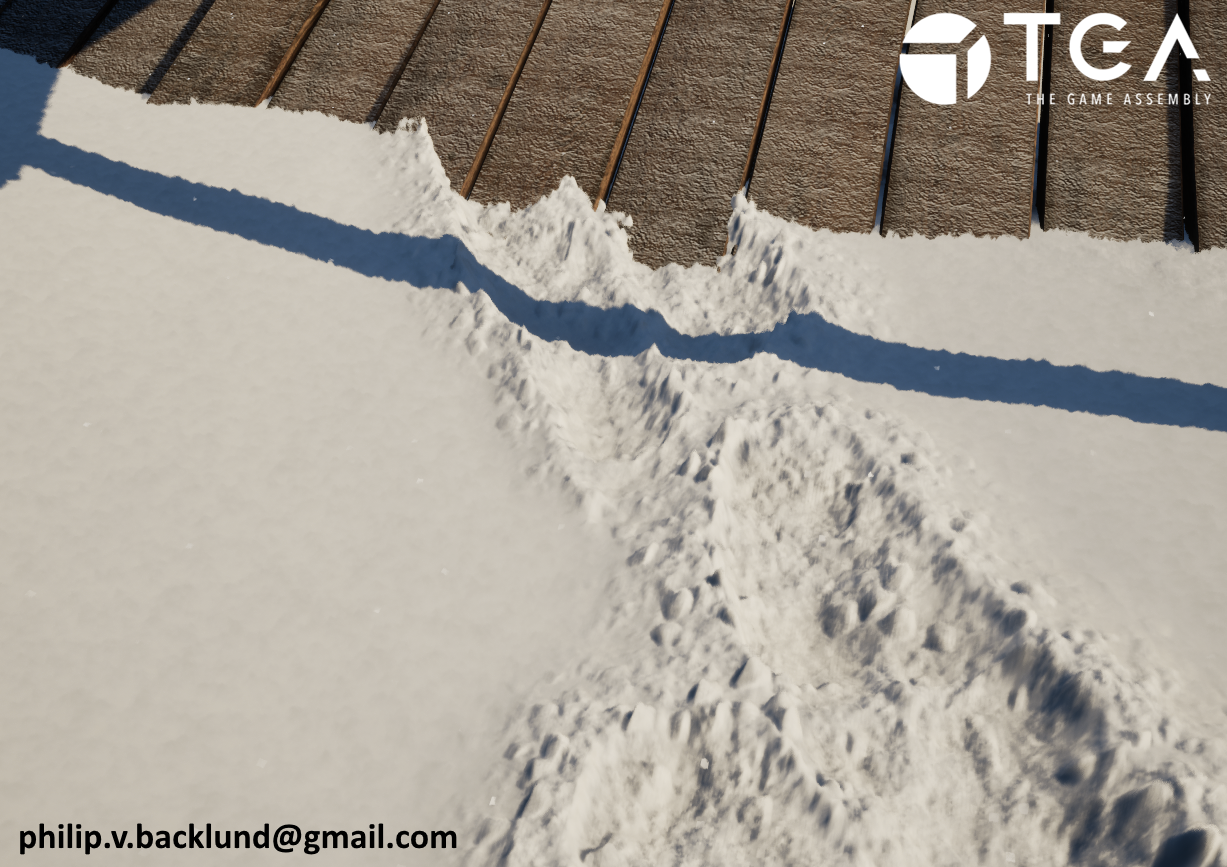
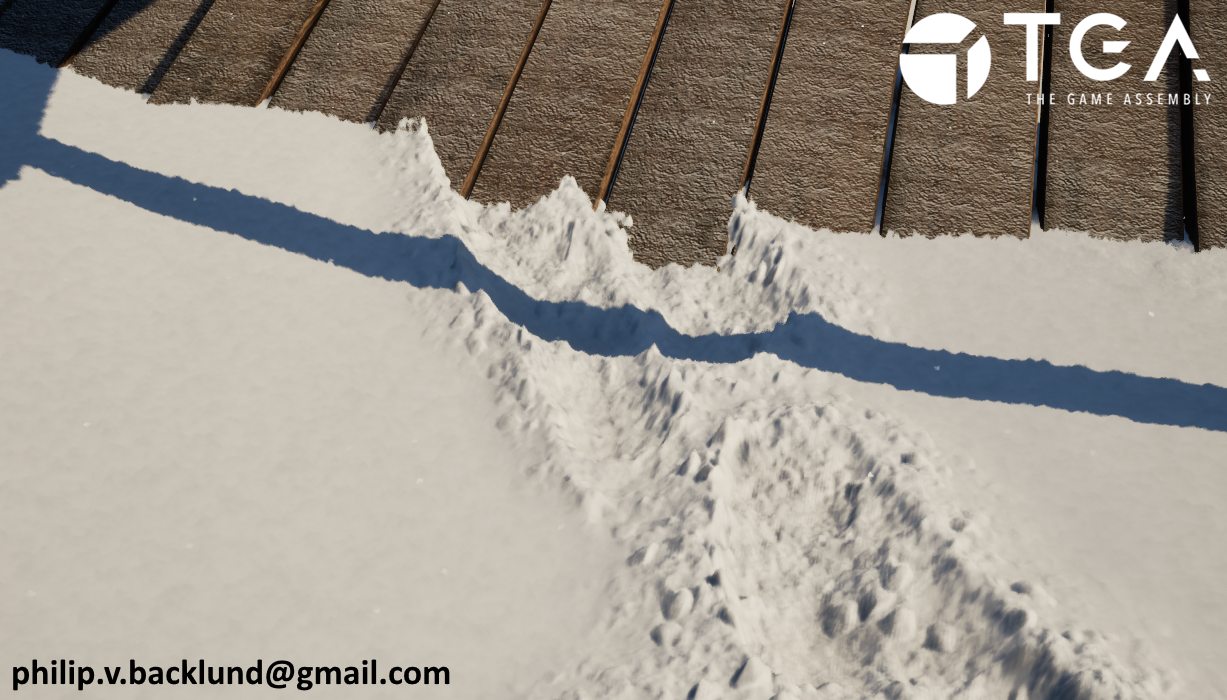
Giffs, space and two

diff --git a/1_SnowDeformation.md b/1_SnowDeformation.md
@@ -71,8 +71,7 @@ After that, I can start sending parameters to the shader and focus on writing th
     <h4>Defining the deformable area</h4>
     
     I needed to define my area for the deformable snow in world space.
-    <br><br>
-    Just using 2 positions works but would be annoying to work with because editing world positions with sliders would be very finicky.
+    Just using two positions works but would be annoying to work with because editing world positions with sliders would be very finicky.
     <br><br>
     To make the process of defining the area simpler, I created two Snow Corners( Red objects in the picture ) that I place in the world. To resize the area I just reposition the Snow Corners in world space.
   </div>
@@ -131,7 +130,7 @@ After that, I can start sending parameters to the shader and focus on writing th
     
     The issue with just using one channel for the snow is that the deformation and the pileup that I want around the deformed area would need to be baked into the same channel. This would make it harder to separate the deformed area and the pileup for applying the detailed textures. It would also mean I would be unable to iterate on the pileup settings on the fly through the material.
     <br><br>
-    That’s why I decided to use two channels instead, red for deformation and green for pileup. This means that I could have control over how the channels get applied. It also gives me 2 perfect masks for the deformation and pileup that I can use to apply the detail textures later.
+    That’s why I decided to use two channels instead, red for deformation and green for pileup. This means that I could have control over how the channels get applied. It also gives me two perfect masks for the deformation and pileup that I can use to apply the detail textures later.
     <br><br>
     When the snow remained untouched it looked really flat and boring. To solve this I added some random noise to the heightmap ( Red channel ) at startup to get some subtle height variation in the untouched snow.
     <br><br>
@@ -175,9 +174,8 @@ After that, I can start sending parameters to the shader and focus on writing th
   <div class="6u$ 12u$(small)">
     <span class="image fit">
       <b>Vertecies being raised</b>
-      <video autoplay controls muted loop style="width: 100%;">
-      <source src="https://github.com/lillabofinken/lillabofinken.github.io/raw/main/assets/images/Snow/Video/VertRaise.mp4" type="video/mp4">
-      </video>
+      <img src="{% link assets/images/Snow/Video/VertRaise.gif %}" alt="Image 1" style="width: 100%"/>
+      
 
     </span>
   </div>
@@ -204,10 +202,7 @@ After that, I can start sending parameters to the shader and focus on writing th
   <div class="6u$ 12u$(small)">
     <span class="image fit">
       <b>Parallax Occlusion Mapping with pixel depth offse</b>
-      <video autoplay controls muted loop style="width: 100%;">
-      <source src="https://github.com/lillabofinken/lillabofinken.github.io/raw/main/assets/images/Snow/Video/POM.mp4" type="video/mp4">
-      </video>
-
+      <img src="{% link assets/images/Snow/Video/POM.gif %}" alt="Image 1" style="width: 100%"/>
     </span>
   </div>
 </div>
@@ -233,10 +228,7 @@ After that, I can start sending parameters to the shader and focus on writing th
     <span class="image fit">
       <b>Detail for height and color<br>
       Pileup now share the 0-1 range with the heightmap</b>
-       <video autoplay controls muted loop style="width: 100%;">
-      <source src="https://github.com/lillabofinken/lillabofinken.github.io/raw/main/assets/images/Snow/Video/PomToPileup.mp4" type="video/mp4">
-      </video>
-
+      <img src="{% link assets/images/Snow/Video/PomToPileup.gif %}" alt="Image 1" style="width: 100%"/>
     </span>
   </div>
 </div>
@@ -265,9 +257,7 @@ After that, I can start sending parameters to the shader and focus on writing th
   <div class="6u$ 12u$(small)">
     <span class="image fit">
       <b>The detail texture being applied</b>
-      <video autoplay controls muted loop style="width: 100%;">
-      <source src="https://github.com/lillabofinken/lillabofinken.github.io/raw/main/assets/images/Snow/Video/PileupToDetail.mp4" type="video/mp4">
-      </video>
+      <img src="{% link assets/images/Snow/Video/PileupToDetail.gif %}" alt="Image 1" style="width: 100%"/>
       <img src="{% link assets/images/Snow/DetailTexture.png %}" alt="Image 1" style="width: 100%"/>
     </span>
   </div>

diff --git a/0_Submarine.md b/0_Submarine.md
@@ -10,7 +10,11 @@ nav-menu: true
 <img src="{% link assets/images/Sonar/AllThree.png %}" alt="Image 1" />
 <p> I used Pipe models made by <a href="https://www.artstation.com/kim_betsgren">Kim Betsgren </a>.</p>
 
-<h2>Intro</h2>
+
+
+<div class="row 50%" style="margin-top:0;">
+  <div class="6u 12u$(small)">
+    <h4>Intro</h4>
 This is a submarine game prototype I made with imaging sonar, passive sonar and a topographic map.
 
 The idea is that the imaging sonar ( Center ) is your eyes and to figure out where you are you'd need to compare the map ( Left ) to the imaging sonar. The passive sonar's ( Right ) purpose would be to locate points of interests or dangers.
@@ -24,6 +28,17 @@ The main focus is the Imaging Sonar while the Passive Sonar and Map are supporti
 The project was originally inspired by the torpedo scene in hunt for red october and a smarter every day’s video about passive sonar.
 
 
+
+  </div>
+
+  
+  <div class="6u$ 12u$(small)">
+    <b>Comparing the map and imaging sonar</b>
+    <img src="{% link assets/images/Sonar/MapAndSonar_Draw.png %}" alt="Image 1" style="width: 100%" />
+    
+  </div>
+</div>
+
 <h2>Shader Setup</h2>
 Setting up compute shaders in Unreal can be a bit tedious. Normally, I need to create several files, define the required classes and functions, and make sure everything is properly connected before I can even begin writing the shader.
 To save time on the setup, I use Shadeup. I start by creating an empty plugin and telling Shadeup to use it for the shaders. I then define the module and compute shader names, and choose a template that renders to a render target. Shadeup generates the necessary files with the correct structure and naming automatically.
@@ -31,9 +46,9 @@ Since Shadeup is built for Unreal Engine 5.3 and I am working in 5.6, some manua
 After that, I can start sending parameters to the shader and focus on writing the actual logic.
 
 
-<h2>Imaging Sonar</h2>
-<img src="{% link assets/images/Sonar/ActiveSonarFinal.png %}" alt="Image 1" />
-
+<h2>Imaging Sonar</h2><br>
+<div class="row 50%" style="margin-top:0;">
+  <img src="{% link assets/images/Sonar/ActiveSonarFinal.png %}" alt="Image 1" style="width: 50%" />
 <div class="row 50%" style="margin-top:0;">
   <div class="6u 12u$(small)">
     <h4> Depth Panorama </h4>
@@ -198,9 +213,10 @@ After that, I can start sending parameters to the shader and focus on writing th
 
 
 
-
-<h2>Topographic Map </h2>
-<img src="{% link assets/images/Sonar/Map.png %}" alt="Image 1" />
+<div class="6u$ 12u$(small)">
+<h2>Topographic Map                                   </h2>
+</div>
+<img src="{% link assets/images/Sonar/Map.png %}" alt="Image 1" style="width: 50%" />
 
 <div class="row 50%" style="margin-top:0;">
   <div class="6u 12u$(small)">
@@ -257,9 +273,10 @@ After that, I can start sending parameters to the shader and focus on writing th
 </div>
 <br><br><br><br>
 
-
+<div class="6u$ 12u$(small)">
 <h2>Passive Sonar</h2>
-<img src="{% link assets/images/Sonar/PasiveSonar.png %}" alt="Image 1" />
+</div>
+<img src="{% link assets/images/Sonar/PasiveSonar.png %}" alt="Image 1" style="width: 50%" />
 <div class="row 50%" style="margin-top:0;">
   <div class="6u 12u$(small)">
     <h4>What is is passive sonar</h4>
